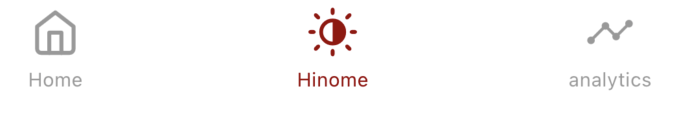
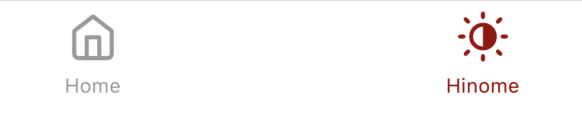
Fix walkthrough.

diff --git a/src/components/WalkthroughModal.tsx b/src/components/WalkthroughModal.tsx
@@ -82,6 +82,9 @@ export const WalkthroughModal: React.FC<Props> = ({
           ref={flatListRef}
           keyExtractor={keyExtractor}
           onViewableItemsChanged={onViewRef.current}
+          viewabilityConfig={{
+            itemVisiblePercentThreshold: 50,
+          }}
         />
 
         <View style={styles.bottomWrapper}>
@@ -187,14 +190,14 @@ const slides = [
   },
   {
     key: '3',
-    title: 'アルバムを見よう',
-    text: 'アルバムはホーム画面で確認できます！',
-    image: require('../../assets/home-tab.png'),
+    title: '写真を撮ろう',
+    text: '通知が来るとカメラボタンが有効になります！',
+    image: require('../../assets/camera-button.png'),
   },
   {
     key: '4',
-    title: '分析機能を使おう',
-    text: '分析画面ではよくカメラを使う時間帯を確認できます！',
-    image: require('../../assets/analytics-tab.png'),
+    title: 'アルバムを見よう',
+    text: 'アルバムはホーム画面で確認できます！',
+    image: require('../../assets/home-tab.png'),
   },
 ];

diff --git a/src/screens/HomeScreen.tsx b/src/screens/HomeScreen.tsx
@@ -77,7 +77,7 @@ export const HomeScreen: React.FC<Props> = ({ navigation }: Props) => {
       };
       f();
     } else {
-      setVisibleCamera(true);
+      setVisibleCamera(false);
     }
   }, [isFocused]);
 
